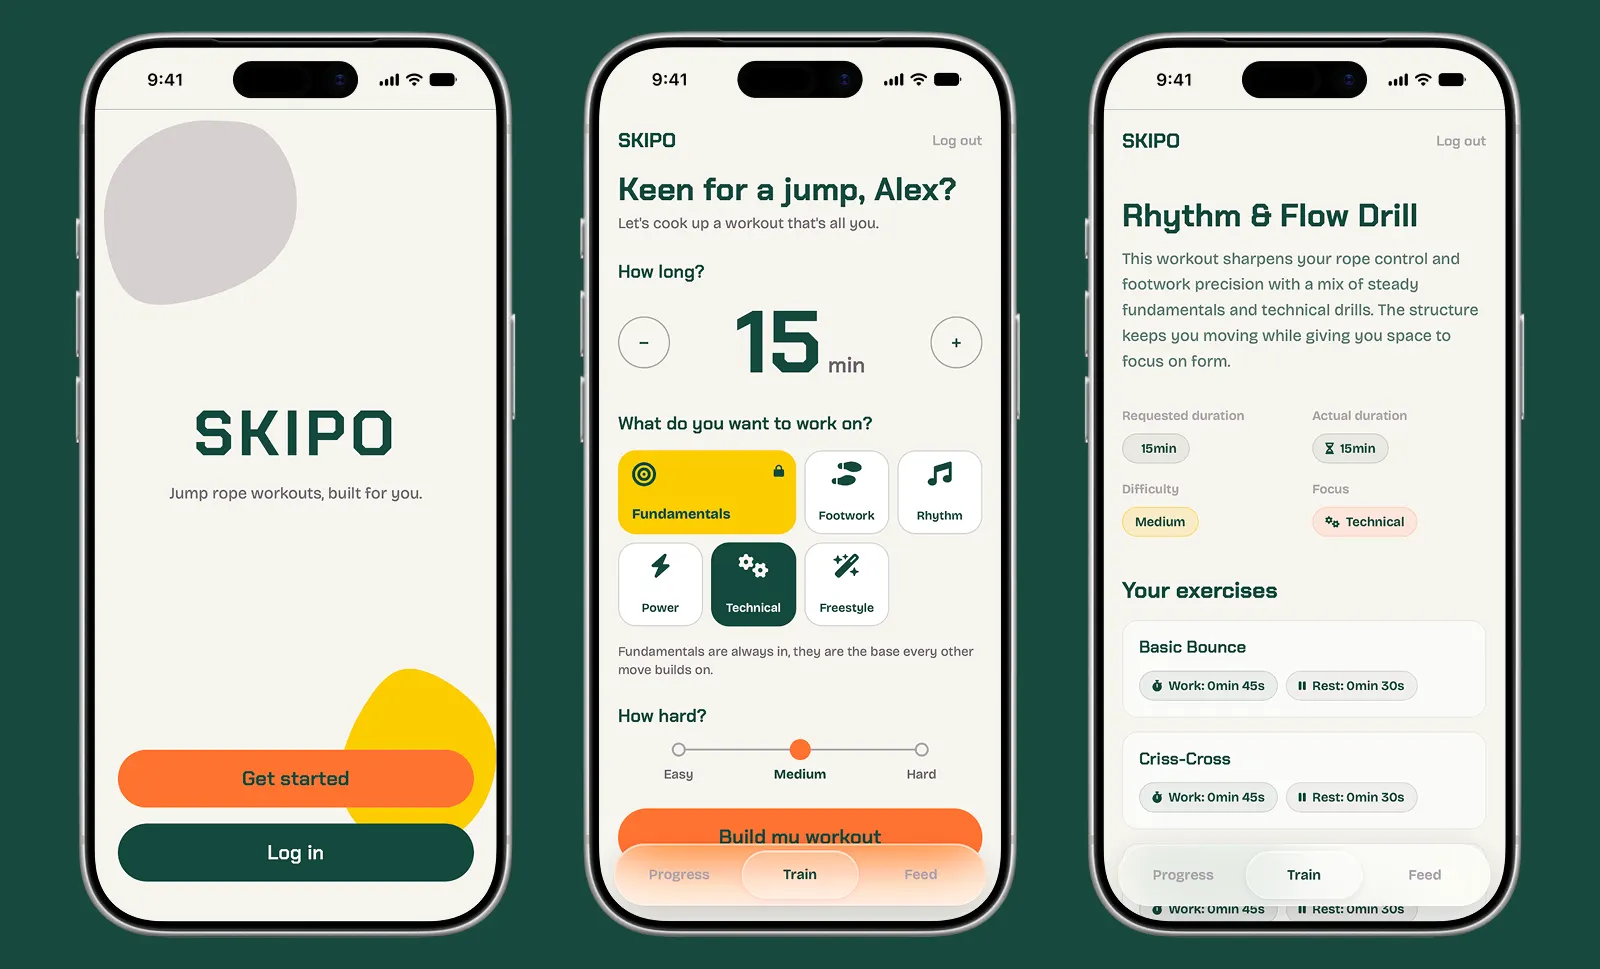
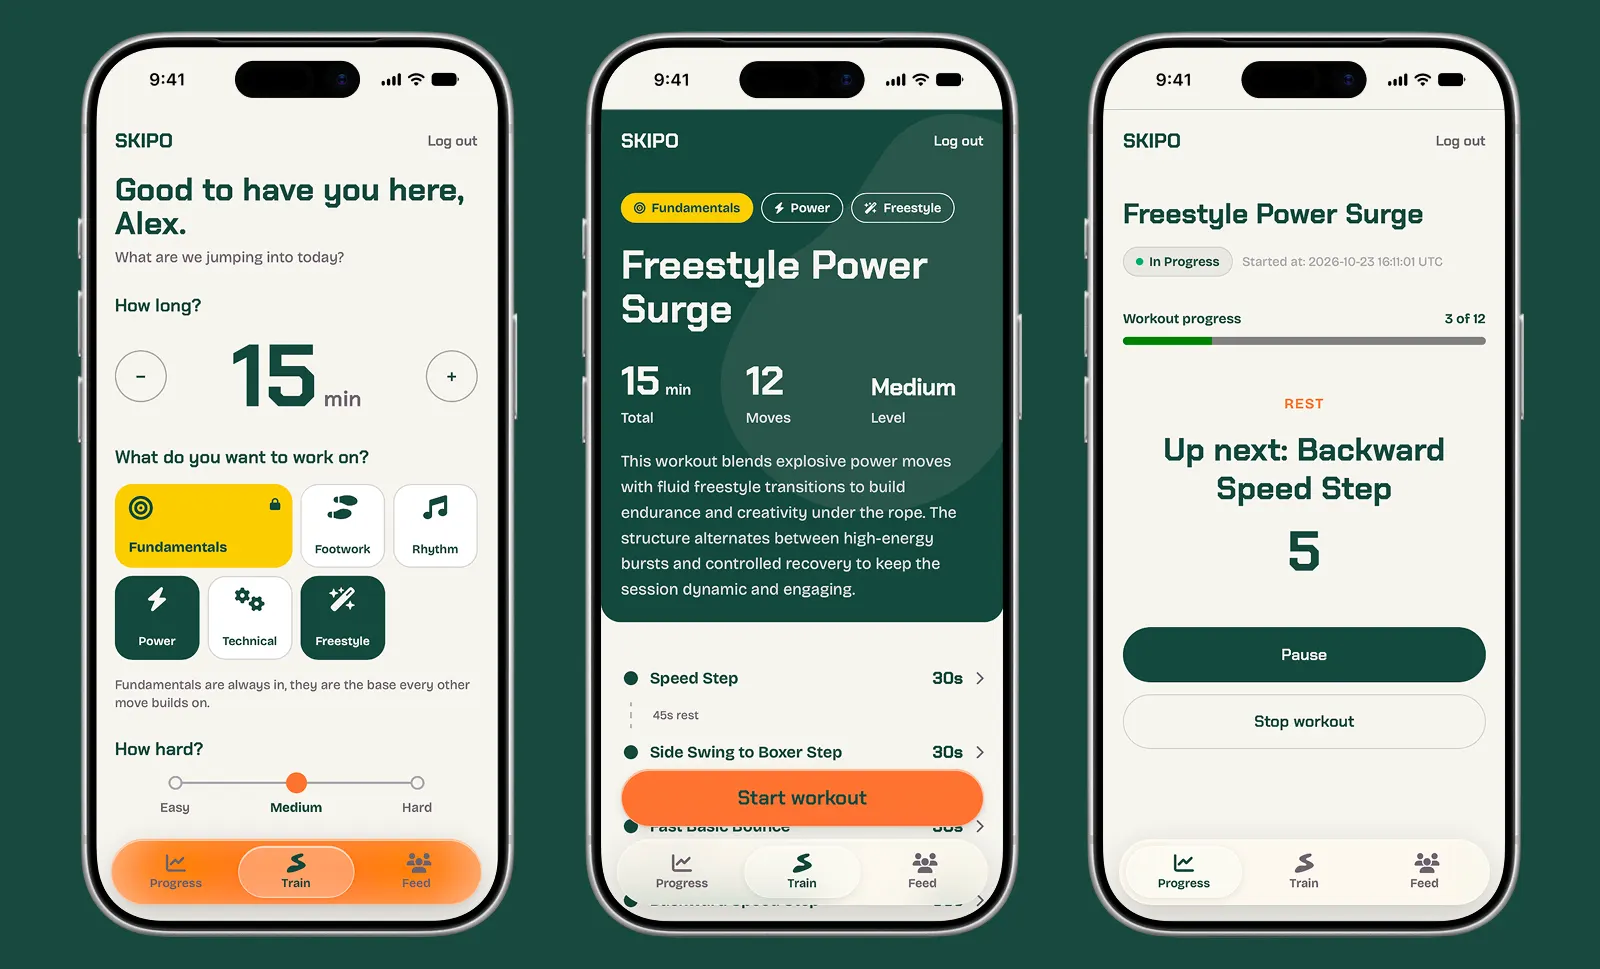
Add Scalingo deployment and new demo account to README

diff --git a/README.md b/README.md
@@ -2,7 +2,8 @@
 
 AI-generated jump rope workouts, built around what you actually want to train.
 
-**[Live demo](https://skipo-app-3be98c580ead.herokuapp.com)** · Demo account: `demo@example.com` / `password`
+**Live demo:** [Scalingo](https://skipo-app.osc-fr1.scalingo.io) · [Heroku](https://skipo-app-3be98c580ead.herokuapp.com)
+Demo account: `jumper@example.com` / `letsjump`
 
 ![SKIPO screens: landing, workout builder, generated workout, active session](docs/screenshots.webp)
 
@@ -31,7 +32,7 @@ SKIPO is a solo project in active development.
 
 ## Stack
 
-Ruby on Rails 8.1, PostgreSQL, Devise, Stimulus, Turbo, Sass/SCSS with Bootstrap, importmap, RubyLLM with Mistral, Solid Queue, Solid Cable, Solid Cache, Active Storage with Cloudinary, Minitest, GitHub Actions, Heroku.
+Ruby on Rails 8.1, PostgreSQL, Devise, Stimulus, Turbo, Sass/SCSS with Bootstrap, importmap, RubyLLM with Mistral, Solid Queue, Solid Cable, Solid Cache, Active Storage with Cloudinary, Minitest, GitHub Actions, Heroku and Scalingo.
 
 ## How generation works
 
@@ -71,7 +72,7 @@ For the full data model, see [schema.dbml](docs/schema.dbml) and [DB.md](docs/DB
 
 ## Engineering decisions
 
-- **Solid Cache, Queue and Cable share one database.** Rails 8 defaults to separate databases for each, but I configured all three to use the primary database so the app can run on a single Postgres instance on Heroku. Solid Queue runs the generation job, while Solid Cable pushes updates to the page via Turbo Streams.
+- **Solid Cache, Queue and Cable share one database.** Rails 8 defaults to separate databases for each, but I configured all three to use the primary database so the app can run on a single Postgres instance on Heroku and Scalingo. Solid Queue runs the generation job, while Solid Cable pushes updates to the page via Turbo Streams.
 - **BEM for SCSS.** I use BEM naming to keep styles organised and avoid naming conflicts. See [CSS.md](docs/CSS.md).
 - **One branch and PR per card.** This keeps changes in smaller, reviewable chunks and makes progress visible.
 - **CI on every PR.** The pipeline runs RuboCop for style checks, bundler-audit and importmap audit for vulnerable dependencies, Brakeman for security analysis, the full test suite, and a check that seeds load cleanly on a fresh database. It runs on every PR and every push to `main`.
